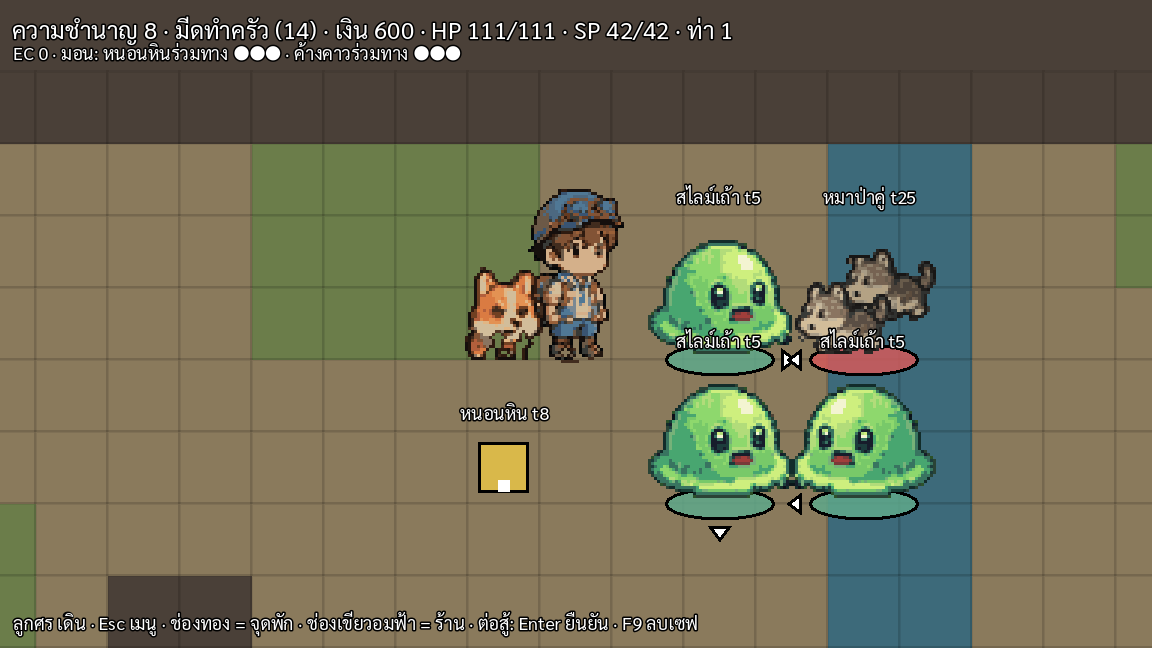
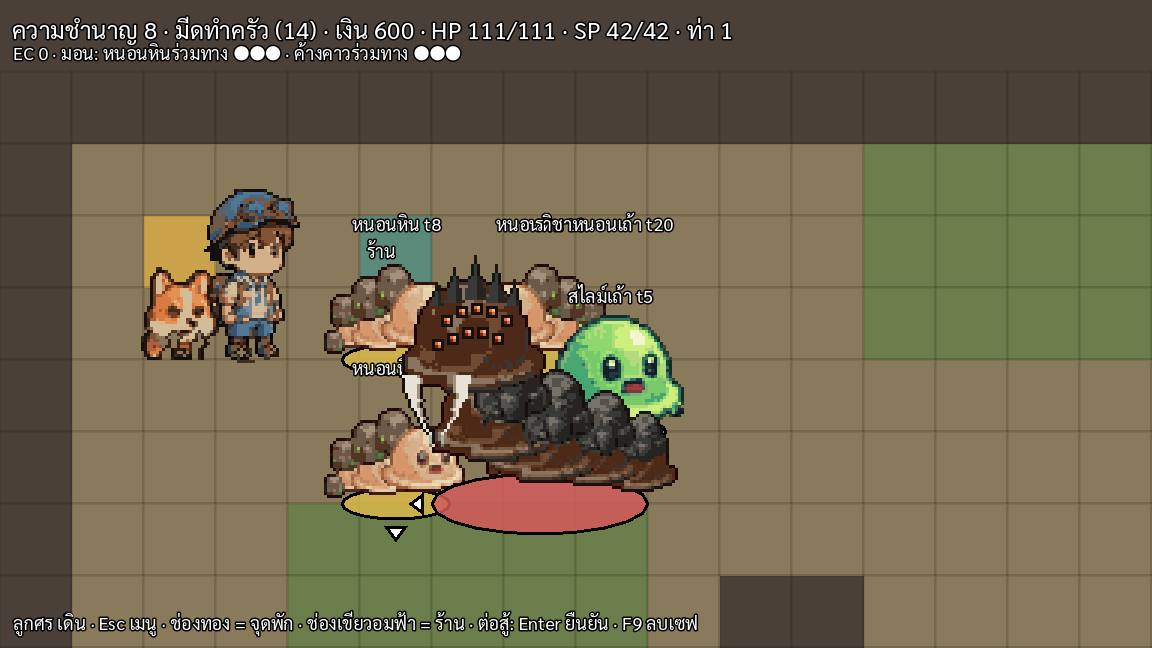
Add the ash worm king to the map and battle
B1 is approved, so every monster on the map now has art. Map labels and
danger rings scale with sprite size, wide foes never cover the name
panel, and the ground ally moved next to Rion so the 96px boss no longer
lands its fangs on it.

Claude-Session: https://claude.ai/code/session_01GQscemcyhAULQ41Vq3Zx3F

diff --git a/reborner/tools/web/reborner.html b/reborner/tools/web/reborner.html
@@ -160,7 +160,7 @@ html, body { height: 100%; background-color: #0e0d0b; }
 </script>
 		<script src="index.js"></script>
 		<script>
-const GODOT_CONFIG = {"args":[],"canvasResizePolicy":2,"emscriptenPoolSize":8,"ensureCrossOriginIsolationHeaders":true,"executable":"index","experimentalVK":false,"fileSizes":{"index.pck":363196,"index.wasm":39513091},"focusCanvas":true,"gdextensionLibs":[],"godotPoolSize":4};
+const GODOT_CONFIG = {"args":[],"canvasResizePolicy":2,"emscriptenPoolSize":8,"ensureCrossOriginIsolationHeaders":true,"executable":"index","experimentalVK":false,"fileSizes":{"index.pck":362416,"index.wasm":39513091},"focusCanvas":true,"gdextensionLibs":[],"godotPoolSize":4};
 const GODOT_THREADS_ENABLED = false;
 const engine = new Engine(GODOT_CONFIG);
 

diff --git a/reborner/tools/sprites/monsters_ll.py b/reborner/tools/sprites/monsters_ll.py
@@ -308,11 +308,11 @@ def worm_king(wave=0):
 	from collections import Counter
 	main = Counter(bp[k][:3] for k, v in kind.items() if v == 'body').most_common(1)[0][0]
 	for k, v in kind.items():                      # ลบหน้าสไลม์ทั้งบริเวณ (ราชามีตานับสิบแทน)
-		if v in ('dark', 'mouth', 'shine'):
-			for dx in (-1, 0, 1):
-				for dy in (-1, 0, 1):
+		if v in ('dark', 'mouth', 'shine'):      # รวมขอบรอบตา 2px (ขอบตานับเป็น body เลยเหลือเป็นเส้นแปลกบนปล้อง)
+			for dx in range(-2, 3):
+				for dy in range(-2, 3):
 					q = (k[0] + dx, k[1] + dy)
-					if 0 <= q[0] < body.width and 0 <= q[1] < body.height and bp[q][3] and kind.get(q) != 'body' or q == k:
+					if 0 <= q[0] < body.width and 0 <= q[1] < body.height and bp[q][3]:
 						bp[q] = main + (255,)
 	flesh = _recolor(body, ASH_FLESH)
 	rock = cut(ROCK_BIG_BOX, tol=60, shadow=True, fringe=1)
@@ -344,15 +344,25 @@ def worm_king(wave=0):
 				put(ex + dx, ey + dy, CHAR[0])
 		put(ex, ey, EMBER[1]); put(ex + 1, ey, EMBER[0]); put(ex, ey + 1, EMBER[0]); put(ex + 1, ey + 1, EMBER[2])
 	# เขี้ยวคู่ใหญ่โค้งลง + น้ำลายข้น
-	for fx in (78, 87):                  # เขี้ยวคู่ใหญ่ โคนหนา 4px เรียวลง โค้งเข้า
-		for k in range(14):
-			w = 4 if k < 4 else 3 if k < 8 else 2 if k < 11 else 1
-			x = fx + (k // 5)
+	# เขี้ยวคู่ใหญ่ (วาดหลังเส้นขอบ ไม่งั้นขอบกินเขี้ยวเหลือครึ่ง): โคนกว้าง 6px ยาว 20px เรียวลง โค้งเข้าหากัน · ด้านในเงา · น้ำลายข้นหยดจากปลาย
+	cv = hue_outline(cv); p = cv.load()
+	tusk = set()
+	for fx, inward in ((74, 1), (91, -1)):
+		for k in range(20):
+			w = max(1, 6 - k // 3)
+			x0 = fx + inward * (k * k) // 60 - (w // 2)
 			for dx in range(w):
-				put(x + dx, 49 + k, h2c('E6E2D6') if dx < w - 1 else h2c('A2927B'))
-		for k in range(3):
-			put(fx + 3, 64 + k, h2c('A7B5A0'))   # น้ำลายข้นหยด
-	return hue_outline(cv)
+				shade = h2c('A2927B') if (dx == w - 1 if inward > 0 else dx == 0) and w > 1 else h2c('E6E2D6')
+				put(x0 + dx, 54 + k, shade); tusk.add((x0 + dx, 54 + k))
+		tip_x = fx + inward * (19 * 19) // 60
+		for k in range(4):
+			put(tip_x, 74 + k, h2c('A7B5A0') if k < 3 else h2c('76726A'))
+	for x, y in list(tusk):               # ขอบเข้มเฉพาะรอบเขี้ยวที่ยื่นพ้นตัว
+		for dx, dy in ((1, 0), (-1, 0), (0, 1), (0, -1)):
+			q = (x + dx, y + dy)
+			if 0 <= q[0] < 96 and 0 <= q[1] < 96 and p[q][3] == 0:
+				p[q] = CHAR[0] + (255,)
+	return cv
 
 if __name__ == '__main__':
 	out = sys.argv[1] if len(sys.argv) > 1 else os.path.join(ROOT, 'assets/sprites/monsters_ll/')
@@ -371,9 +381,7 @@ if __name__ == '__main__':
 	stone_worm(1, friend=True).save(os.path.join(out, 'COMP-M03_idle1.png'))
 	bat(friend=True).save(os.path.join(out, 'COMP-M06.png'))
 	bat(1, friend=True).save(os.path.join(out, 'COMP-M06_idle1.png'))
-	# ร่างที่ยังไม่อนุมัติ → monsters_ll_draft/ (เกมโหลด monsters_ll/ อัตโนมัติ — ร่างห้ามเข้าเกมก่อนอนุมัติ)
-	draft = out.rstrip('/') + '_draft/'
-	os.makedirs(draft, exist_ok=True)
-	worm_king().save(os.path.join(draft, 'B1.png'))
-	worm_king(1).save(os.path.join(draft, 'B1_idle1.png'))
+	worm_king().save(os.path.join(out, 'B1.png'))                       # B1 อนุมัติแนว 3 ต.ค.
+	worm_king(1).save(os.path.join(out, 'B1_idle1.png'))
+	# ร่างที่ยังไม่อนุมัติ → <out>_draft/ (เกมโหลด monsters_ll/ อัตโนมัติ — ร่างห้ามเข้าเกมก่อนอนุมัติ)
 	print('ok ->', out)

diff --git a/reborner/CLAUDE.md b/reborner/CLAUDE.md
@@ -101,7 +101,8 @@ Sim ปิดตัวเองเมื่อรัน headless · บรรท
   **M03 หนอนหิน + M06 ค้างคาวเงา kwan อนุมัติ 3 ต.ค.** (อยู่ใน `monsters_ll/` → ขึ้นแมพ/จอสู้อัตโนมัติ): หนอน = สไลม์ย่อลงสีผิวอุ่น 3 ปล้อง + หินมอสจากชีต · ค้างคาว = หัวหมามุมหน้า + ปีกวาดใหม่
   มอนฝั่งเราในจอสู้: หา `COMP-<id>` ก่อน ไม่มีใช้ `<id>` พลิกหันซ้าย · ช่อง 1 พื้น x176 · ช่อง 2 ลอย x186 · ศัตรูยืน x100-178
   COMP-M03 (ผ้าพันคอทีล+หน่อใบไม้) / COMP-M06 (ปลอกคอหนัง+จี้ทีล) **kwan อนุมัติ 3 ต.ค.** → มอนฝั่งเราใช้ในจอสู้ · ทีลใช้ตามสเปก COMP (bible บอกทีลสงวนให้ Rion/UI)
-  ร่าง B1 ราชาหนอนเถ้า 96px (`monsters_ll_draft/B1*.png` · `worm_king()`): ปล้องสไลม์สีเถ้า-น้ำตาลเข้ม + เกราะหินสีถ่าน 4 แผ่น + มงกุฎหนาม 5 ซี่ + ตาเรือง 10 ดวง + เขี้ยวคู่ · ภาพ `previews/b1_draft.png` · รอ kwan
+  **B1 ราชาหนอนเถ้า 96px kwan อนุมัติแนว 3 ต.ค.** (`worm_king()`): ปล้องสไลม์สีเถ้า-น้ำตาลเข้ม + เกราะหินถ่าน 4 แผ่น + มงกุฎหนาม 5 ซี่ + ตาเรือง 10 ดวง + เขี้ยวโค้งยาว 20px (วาดหลังเส้นขอบ)
+  ตอนนี้มอนบนแมพมีรูปครบทุกตัว · แมพ: ป้ายชื่อ/วงสีขยายตามขนาดรูป · จอสู้: รูปกว้างไม่ทับแผง (x ≥ 98) · ช่องมอนฝั่งเรา x188 (พื้น) / x184 (ลอย) · ภาพ `previews/battle_boss.png`
   **จอสู้ผังแบบ A (kwan เลือก 3 ต.ค.)**: แผงศัตรู x2-98 · แผงปาร์ตี้ x288-382 · ศัตรูที่มีรูปยืนกลางเวที x100-214 (สลับแถวหน้า/หลัง · idle 2 เฟรม · ล้ม = จาง) · Rion x222
   แถวในแผง: บรรทัดแรก ชื่อ+HP (ล้ม = คำว่า "ล้ม") ตัว 6pt · บรรทัดสอง ▼ท่าที่เปิด/◇/สถานะ · แผงตัดส่วนล้น (เทสต์แล้วศัตรู 3 ตัวพอดี) · ภาพ `previews/battle_stage.png`
   ชีต `previews/monsters_ll_samples.png` · **ยังไม่ต่อเข้าเกม รอ kwan อนุมัติด้วยตา** · B1 ในเกม 80px แต่สเปก L 96px
